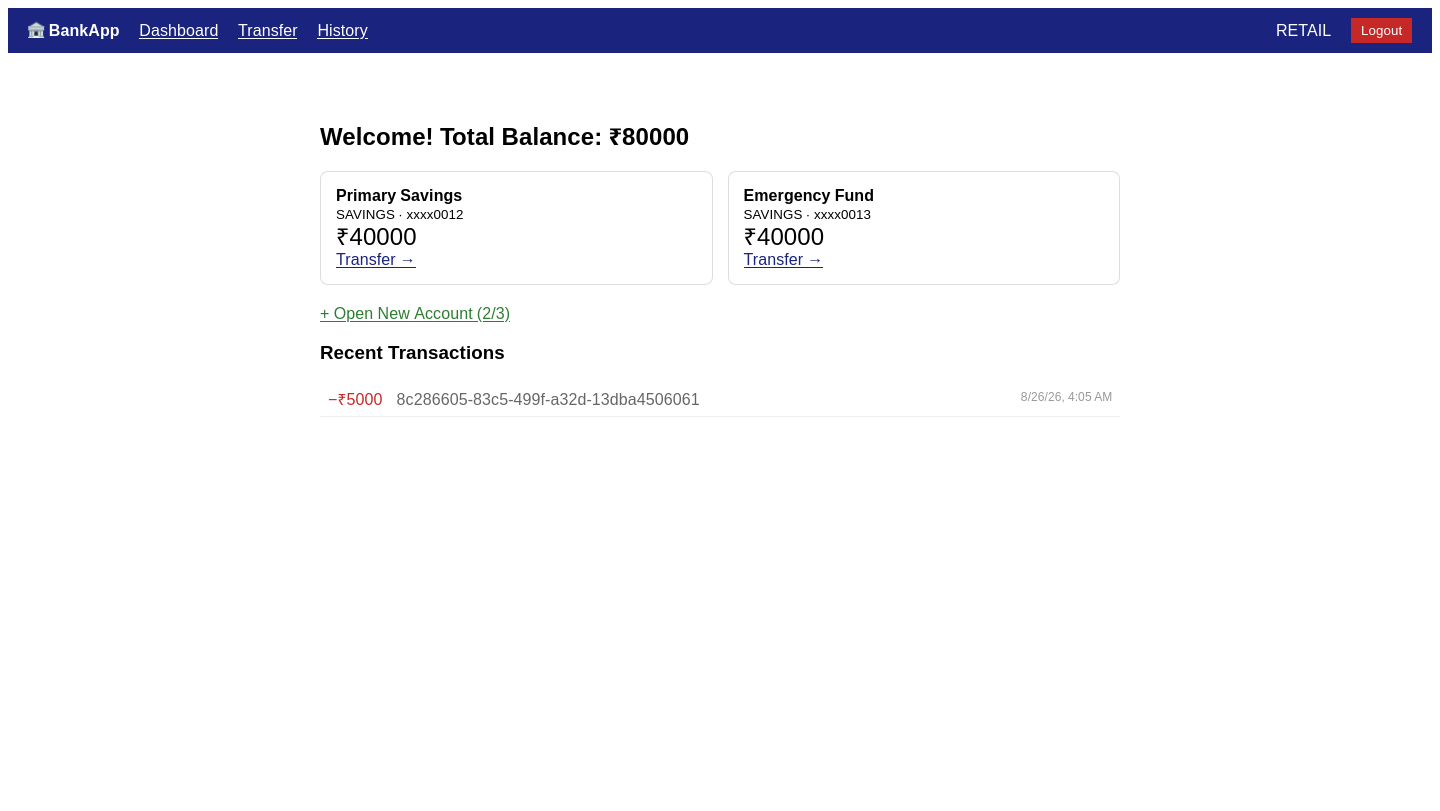
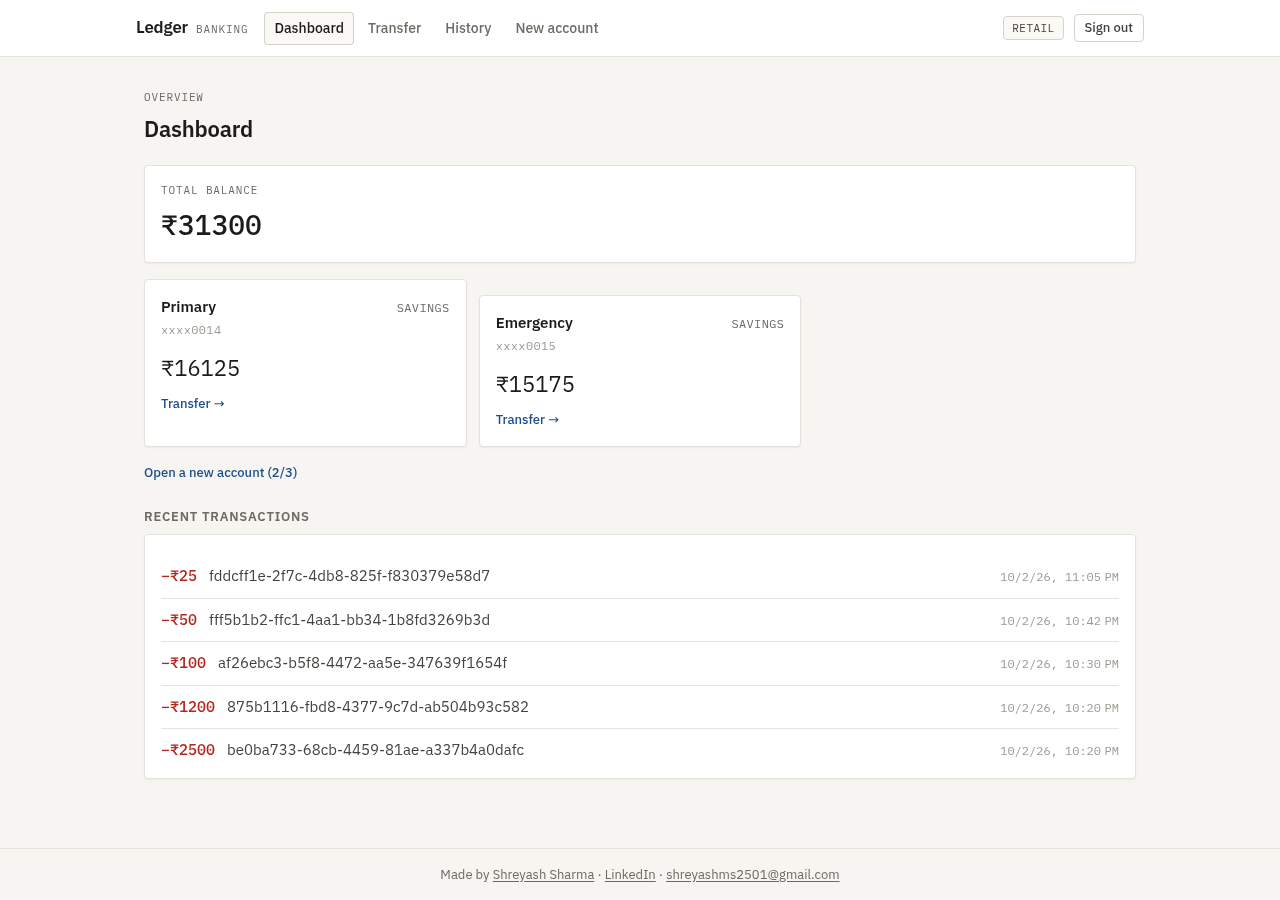
docs: refresh front-end screenshots to the current banking-ui
The three screenshots in this README predated the client's redesign. Replaced
with captures of the current UI, and added two the README never had: the
pre-login welcome page, and the sign-in screen — which now prints the demo
accounts on the page itself.

Also links the banking-ui repository, where the client's own documentation
lives, and describes what the dashboard and history views actually show.

diff --git a/README.md b/README.md
@@ -48,18 +48,27 @@ This is not a toy CRUD app:
 
 ## Screenshots (banking-ui, Angular 22)
 
-The Angular frontend (`banking-ui`) talking to the live platform — login,
-dashboard, transfer, and transaction history against the real gateway and
-services (Postgres + Kafka + ledger):
+The Angular client (`banking-ui`) against the live platform — the pre-login front
+page, the sign-in screen, the dashboard, a transfer and the ledger history. Its
+own repository is
+[`banking-ui`](https://github.com/shreyashsharmaprojects-del/banking-ui).
+
+| Welcome (pre-login) | Sign in |
+|---|---|
+| ![Welcome screen](docs/welcome.png) | ![Sign in](docs/sign-in.png) |
 
 | Dashboard | Transfer | History |
 |---|---|---|
 | ![Dashboard](docs/dashboard.png) | ![Transfer](docs/transfer.png) | ![History](docs/history.png) |
 
-The transfer shown in the screenshots was executed end-to-end through the
-platform: gateway → payment-service (idempotency + outbox) → Kafka →
-transaction-service (immutable ledger) — visible as the DEBIT entry in the
-dashboard and History views.
+The sign-in screen prints the demo accounts on the page itself, so a visitor can
+use the demo without being told the credentials out of band.
+
+The Dashboard and History views show entries written by transfers that ran
+end-to-end through the platform: gateway → payment-service (idempotency +
+outbox) → Kafka → transaction-service (immutable ledger), each appearing as a
+DEBIT entry. The Transfer screen shows the recipient search resolving a real
+account before the form will submit.
 
 ## Architecture
 
